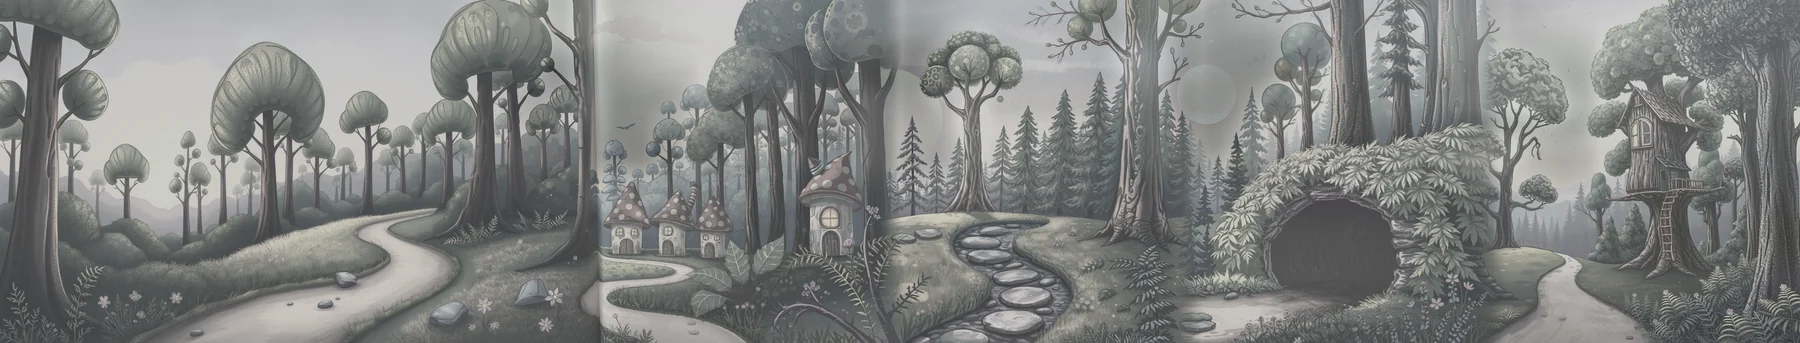
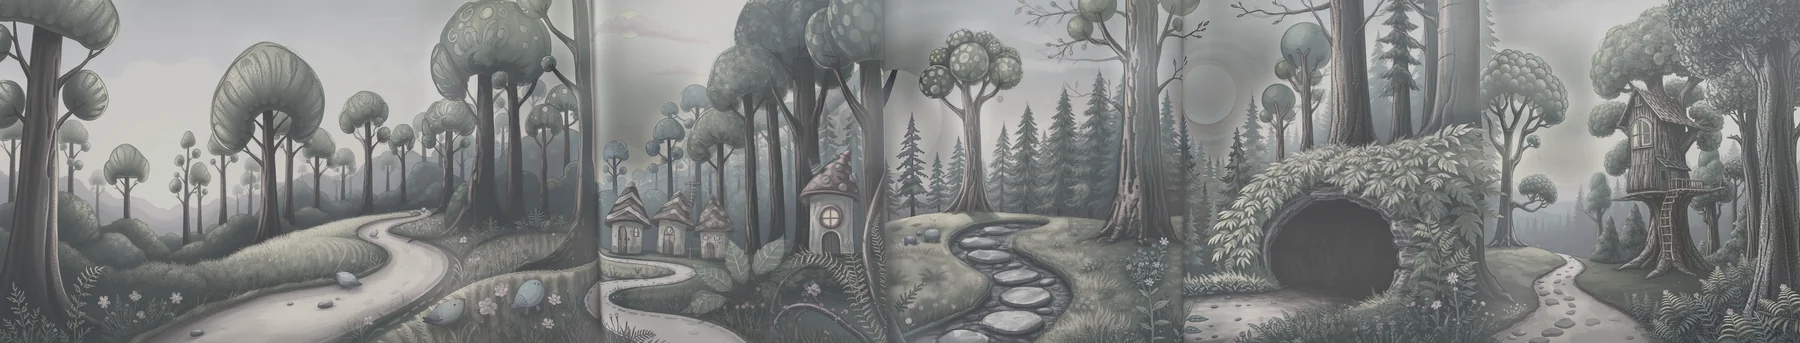
Every grade's world in full colour, with the painting's joins healed
- The meadow, forest and cliffs worlds had visible joins where their
  panoramas were painted in stretches (the art to-do from earlier). A
  second, stronger repaint of each join (art/seams.py, local FLUX), and a
  narrow top-to-bottom smoothing at each join (new "seam_soften" setting
  in art/worlds/*.json, used by art/world.py) so no stretch is lighter or
  warmer than the next. The game uses these paintings too.
- The website walks each world's best stretch, with depth, and only the
  world in front shows its caption while two crossfade.
- The eureka light now spreads from the lantern itself (the rig reports
  its lantern relative to its feet), and Gloam's cut-outs fade at their
  edges so a lantern's glow never shows a box.

diff --git a/site/pages/home.ts b/site/pages/home.ts
@@ -39,10 +39,11 @@ const valley = (k: number) => `<img class="layer" data-depth="${k}" src="art/sen
 const valleyLit = (k: number) => `<img class="layer" data-depth="${k}" src="art/senior/valley-${k}-lit.webp" alt="">`;
 
 const WORLDS = [
-  { age: "little", grade: "Kindergarten to grade 2", line: "A sunny storybook meadow, tiny words, big buttons, and read-aloud on from the start.", gloam: "Bright, bouncy and very excited about everything." },
-  { age: "junior", grade: "Grades 3 to 5", line: "A mushroom forest, and a cheeky Gloam who gets things wrong on purpose. Mostly.", gloam: "Playful, curious, a little cheeky." },
-  { age: "middle", grade: "Grades 6 to 8", line: "Windy sea cliffs at twilight, and a goofy, very dramatic Gloam in a scarf.", gloam: "Dramatic. Extremely dramatic." },
-  { age: "senior", grade: "Grades 9 to 12", line: "A night valley, and a dry, deadpan Gloam who really hates being wrong.", gloam: "Deadpan. Smugly wrong." },
+  // from/to: where the camera starts and stops along each painted journey (its best stretch), as a share of its width
+  { age: "little", from: 0.12, to: 0.3, grade: "Kindergarten to grade 2", line: "A sunny storybook meadow, tiny words, big buttons, and read-aloud on from the start.", gloam: "Bright, bouncy and very excited about everything." },
+  { age: "junior", from: 0.31, to: 0.37, grade: "Grades 3 to 5", line: "A mushroom forest, and a cheeky Gloam who gets things wrong on purpose. Mostly.", gloam: "Playful, curious, a little cheeky." },
+  { age: "middle", from: 0.14, to: 0.24, grade: "Grades 6 to 8", line: "Windy sea cliffs at twilight, and a goofy, very dramatic Gloam in a scarf.", gloam: "Dramatic. Extremely dramatic." },
+  { age: "senior", from: 0.06, to: 0.2, grade: "Grades 9 to 12", line: "A night valley, and a dry, deadpan Gloam who really hates being wrong.", gloam: "Deadpan. Smugly wrong." },
 ];
 const worldLayers = (age: string) => [0, 1, 2, 3].map((k) => `<img class="w-layer" data-depth="${k}" src="art/${age}/journey-${k}-lit.webp" alt="" loading="lazy">`).join("");
 
@@ -145,7 +146,7 @@ ${bar}
 <section class="worlds" id="worlds" aria-labelledby="worlds-title">
   <div class="worlds-pin">
     ${WORLDS.map(
-      (w, i) => `<figure class="world${i === 0 ? " is-on" : ""}" data-world="${i}">
+      (w, i) => `<figure class="world${i === 0 ? " is-on" : ""}" data-world="${i}" data-from="${w.from}" data-to="${w.to}">
       <div class="w-layers">${worldLayers(w.age)}</div>
       <img class="w-gloam" src="img/gloam-${w.age}.webp" alt="" loading="lazy">
       <figcaption><b class="voice">${w.grade}</b> <span>${w.line}</span></figcaption>

diff --git a/site/js/home.ts b/site/js/home.ts
@@ -335,21 +335,26 @@ function worlds() {
   const pan = (p: number) => {
     const n = panels.length;
     const pos = p * n;
+    // each world is on screen for its share of the scroll, crossfading at the edges; only the more visible one
+    // shows its words (two captions on top of each other would be a mess)
+    const seen = panels.map((_, i) => Math.max(0, Math.min(1, Math.min(pos - i + 0.15, 1.15 - (pos - i)) / 0.15)));
+    const lead = seen.indexOf(Math.max(...seen));
     panels.forEach((w, i) => {
-      // each world is on screen for its share of the scroll, crossfading at the edges
       const q = pos - i;
-      const vis = Math.max(0, Math.min(1, Math.min(q + 0.15, 1.15 - q) / 0.15));
+      const vis = seen[i];
       w.style.opacity = vis.toFixed(3);
-      w.classList.toggle("is-on", vis > 0.5);
+      w.classList.toggle("is-on", i === lead);
       if (vis <= 0) return;
       const local = Math.max(0, Math.min(1, q));
+      const from = Number(w.dataset.from ?? 0.15);
+      const to = Number(w.dataset.to ?? 0.3);
       for (const l of $$<HTMLImageElement>(".w-layer", w)) {
         const d = Number(l.dataset.depth);
-        const room = Math.max(0, l.offsetWidth - innerWidth);
-        // the far hills barely move, the front grass moves most: you're walking through it
-        const start = room * 0.18;
-        const travel = room * 0.42 * (0.35 + 0.65 * (d / 3));
-        l.style.transform = `translate3d(${(-start - local * travel).toFixed(1)}px, 0, 0)`;
+        // the camera walks along the painting's best stretch; the front grass slides a little more than the far
+        // hills (depth), so you're walking through it
+        const at = (from + (to - from) * local) * l.offsetWidth;
+        const parallax = (d - 1.5) * local * innerWidth * 0.035;
+        l.style.transform = `translate3d(${(-at - parallax).toFixed(1)}px, 0, 0)`;
       }
     });
   };

diff --git a/site/style.css b/site/style.css
@@ -1140,7 +1140,7 @@ html:not(.js) .world,
 }
 html:not(.js) .w-layer,
 .calm .w-layer {
-  transform: translateX(-20%);
+  transform: translateX(-15%);
 }
 
 /* ---------- Act IV: nothing leaves the laptop ---------- */

diff --git a/art/world.py b/art/world.py
@@ -68,6 +68,12 @@ def main():
         for x in seams:
             c = x + 56
             run(os.path.join(HERE, "smooth_band.py"), smooth, smooth, str(c - 230), str(c + 230), str(world.get("horizon", 360)))
+        # below the sky too: a narrow band at each join, top to bottom, so no stretch is lighter or warmer than
+        # the next one (narrow, so a red roof near a join keeps its colour). "seam_soften": {"half": 110, "at": [extra joins]}
+        soften = world.get("seam_soften")
+        if soften:
+            for c in [x + 56 for x in seams] + soften.get("at", []):
+                run(os.path.join(HERE, "smooth_band.py"), smooth, smooth, str(c - soften["half"]), str(c + soften["half"]), str(Image.open(smooth).height))
         dark, lit = os.path.join(work, "dark.png"), os.path.join(work, "lit.png")
         run(os.path.join(HERE, "grade.py"), smooth, dark, lit, world.get("grade", "storybook"))
         run(os.path.join(HERE, "layers.py"), dark, lit, pub, "journey")
